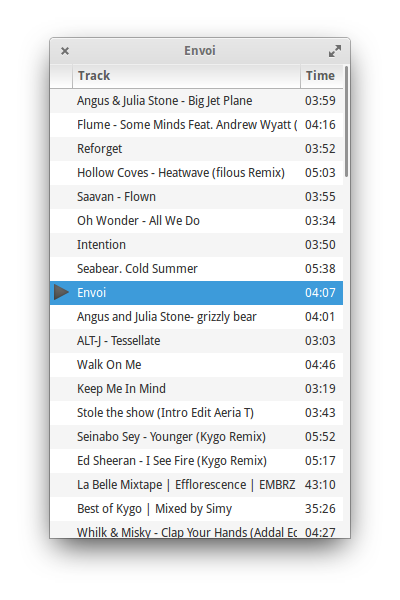
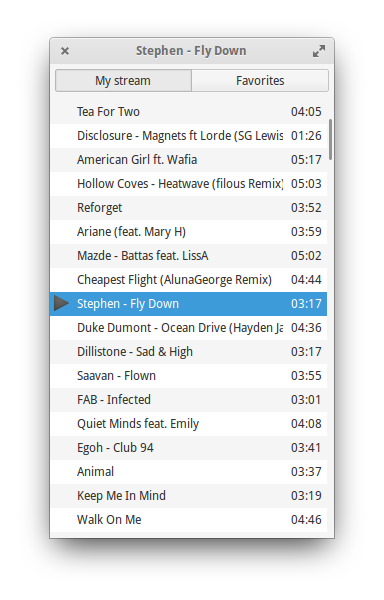
Login, main stream, stack_switcher at the top

Changed region(s): [[0.125, 0.06, 0.875, 0.9]]

diff --git a/nem.py b/nem.py
@@ -1,13 +1,16 @@
 #!/usr/bin/python
 # encoding=utf8
 import soundcloud
-import os, time
+import os
 import gi
 from gi.repository import Gst, GObject, Gtk, GLib, Gdk
 import config
 
+client = soundcloud.Client(client_id=config.api_client_id, client_secret=config.api_client_secret, username= config.username, password=config.password)
+
 favorites_tracks = []
-client = soundcloud.Client(client_id=config.api_client_id)
+mystream_tracks = []
+tracks = []
 
 def milliToR(miliseconds):
     hours, milliseconds = divmod(miliseconds, 3600000)
@@ -25,19 +28,36 @@ def get_resource_path(rel_path):
     abs_path_to_resource = os.path.abspath(rel_path_to_resource)
     return abs_path_to_resource
 
-def getSoundcloudData():
-    id_user = client.get("/resolve?url=http://soundcloud.com/"+config.username).id
-    #Get first 200 items (limit) of tracks
-    tracks = client.get("/users/"+str(id_user)+"/favorites", limit=200, linked_partitioning=1)
-    favorites_tracks.extend(tracks.collection)
-    # Iterate through all pages of soundcloud tracks
-    while hasattr(tracks, 'next_href'):
-        tracks = client.get(tracks.next_href)
-        favorites_tracks.extend(tracks.collection)
-    return favorites_tracks
-
 class GTK_Main(object):
-     
+
+    def getSoundcloudData(self):
+        #Get first 200 items (limit) of tracks
+        rqt = client.get("/me/favorites", limit=200, linked_partitioning=1)
+        temp_tracks = []
+        temp_tracks.extend(rqt.collection)
+        while hasattr(rqt, 'next_href'): # Iterate through all pages of soundcloud favorites
+            rqt = client.get(rqt.next_href)
+            temp_tracks.extend(rqt.collection)
+
+        for i in temp_tracks:
+            if hasattr(i, 'title') and hasattr(i, 'duration') and hasattr(i, 'stream_url'):
+                tracks.append({'type': 'favorites', 'title': i.title, 'duration': i.duration, 'stream_url': i.stream_url})
+
+
+        #Get only 200 items (limit) of tracks
+        rqt = client.get("/me/activities", limit=200)
+        temp_tracks = []
+        temp_tracks.extend(rqt.collection)
+
+        for i in temp_tracks:
+            if i.type == "track" or i.type == "track-sharing" or i.type == "track-repost":
+                if hasattr(i.origin, 'title') and hasattr(i.origin, 'duration') and hasattr(i.origin, 'stream_url'):
+                    tracks.append({'type': 'mystream', 'title': i.origin.title, 'duration': i.origin.duration, 'stream_url': i.origin.stream_url})
+        # Loading finished, show data
+        self.vbox.remove(self.loading)
+        self.scrolledwindow.show()
+        self.loadMyStream('')
+         
     def playStream(self, iter):
         model = self.treeview.get_model()
         #Check if a song is already playing, and erase it's status icon
@@ -48,9 +68,8 @@ class GTK_Main(object):
         self.liststore.set_value(playing_cell, 0, Gtk.STOCK_MEDIA_PLAY)
         
         track = model[iter][1]
-        #To change : actually comparing tracks name but should get the list index and play the index sound
-        for f in favorites_tracks:
-            if f.title.encode('ascii', 'ignore') == track:
+        for f in tracks:
+            if f['title'].encode('ascii', 'ignore') == track:
                 self.window.set_title(track)
                 old_state = self.player.get_state(0)[1]
                 if old_state == Gst.State.PAUSED:
@@ -58,7 +77,7 @@ class GTK_Main(object):
                 else:
                     self.player.set_state(Gst.State.NULL)
                     
-                self.player.set_property("uri", f.stream_url+"?client_id="+client.client_id)
+                self.player.set_property("uri", f['stream_url']+"?client_id="+client.client_id)
                 self.player.set_state(Gst.State.PLAYING) 
     
     def onClickRow(self, treeview, path, column):
@@ -84,8 +103,8 @@ class GTK_Main(object):
         if 'playing_cell' in globals():
            next_iter = self.liststore.iter_next(playing_cell) 
            self.playStream(next_iter)
-           
-    def OnMessage(self, bus, message):
+
+    def OnGstMessage(self, bus, message):
         if message.type == Gst.MessageType.EOS:
           self.NextTrack()
         elif message.type == Gst.MessageType.ERROR:
@@ -101,22 +120,29 @@ class GTK_Main(object):
             self.NextTrack()
             return True
 
-    def showDataRows(self):
-        for i in getSoundcloudData():
-            self.liststore.append(['', i.title.encode('ascii', 'ignore'), milliToR(i.duration)])
-        self.vbox.remove(self.loading)
-        self.scrolledwindow.show()
-        
+    def loadFavorites(self, a):
+        self.liststore.clear()
+        for i in tracks:
+            if i['type'] == "favorites":
+                self.liststore.append(['  ', i['title'].encode('ascii', 'ignore'), milliToR(i['duration'])])
+
+    def loadMyStream(self, a):
+        self.liststore.clear()
+        for i in tracks:
+            if i['type'] == "mystream":
+                self.liststore.append(['  ', i['title'].encode('ascii', 'ignore'), milliToR(i['duration'])])
+
+            
     def __init__(self):     
         self.window = Gtk.Window(Gtk.WindowType.TOPLEVEL)
         self.window.set_default_size(400, 600)
+        self.window.set_border_width(0)
         self.window.set_title("Nem")
         self.window.set_icon_from_file(get_resource_path("icon.png"))
-        #self.window.connect("realize", self.onClickBtn)
         self.window.connect("destroy", Gtk.main_quit, "WM destroy")
         self.window.connect('key_press_event', self.KeyPressed)
-        
-        #Cross platform and theme-independent style
+    
+        # ---------------- Cross platform & theme-independent style -------------------
         style_provider = Gtk.CssProvider()
         style_provider.load_from_data('''
         GtkTreeView row:nth-child(even) { background-color: #F5F5F5; color: #333333}
@@ -124,18 +150,20 @@ class GTK_Main(object):
         GtkTreeView row:selected { background-color: #3D9BDA; color: #FFFFFF}
         ''')
         Gtk.StyleContext.add_provider_for_screen(Gdk.Screen.get_default(), style_provider, Gtk.STYLE_PROVIDER_PRIORITY_APPLICATION)
-
-        self.vbox = Gtk.VBox()
+        #---------------------------------------------------------------------------------
+        
+        self.vbox = Gtk.VBox(orientation=Gtk.Orientation.VERTICAL, spacing=6)
         self.window.add(self.vbox)
 
         self.liststore = Gtk.ListStore(str, str, str)
         self.treeview = Gtk.TreeView(self.liststore)
-        
-        #Different color for each row
-        self.treeview.set_rules_hint(True)
- 
-        self.treeview.set_property('height-request', 500)
-        
+        self.treeview.connect('row-activated', self.onClickRow) #Double click handler
+        self.treeview.set_rules_hint(True)  #Different color for each row
+        self.treeview.set_headers_visible(False) # Hide headers
+        self.treeview.set_property('height-request', 500)        
+        self.treeview.set_search_column(-1) #not searchable (so keypress events don't interfers
+        self.treeview.set_reorderable(True) #drag & drop rows
+  
         # create the TreeViewColumns to display the data
         self.statusColumn = Gtk.TreeViewColumn('')
         self.trackColumn = Gtk.TreeViewColumn('Track')
@@ -146,8 +174,6 @@ class GTK_Main(object):
         self.treeview.append_column(self.trackColumn)
         self.treeview.append_column(self.timeColumn)
 
-        
-
         # create a CellRenderers to render the data
         self.cellStatus = Gtk.CellRendererPixbuf()
         self.cellTrack = Gtk.CellRendererText()
@@ -156,53 +182,64 @@ class GTK_Main(object):
         # add the cells to the columns
         self.statusColumn.pack_start(self.cellStatus, False)
         self.trackColumn.pack_start(self.cellTrack, True)
+        self.trackColumn.set_sort_column_id(1)  # Allow sorting on the track column
         self.timeColumn.pack_start(self.cellTime, False)
 
         # 2nd argument is for mapping with data from liststore append above
         self.statusColumn.set_attributes(self.cellStatus, stock_id=0)
         self.trackColumn.set_attributes(self.cellTrack, text=1)
         self.timeColumn.set_attributes(self.cellTime, text=2)
-
-        # Allow sorting on the track column and 
-        self.trackColumn.set_sort_column_id(1)
-        #not searchable (so keypress events don't interfers)
-        self.treeview.set_search_column(-1)
-        #drag & drop rows
-        self.treeview.set_reorderable(True)
        
         #Column auto expand based on window size
         self.trackColumn.set_fixed_width(100)
         self.trackColumn.set_expand(True)
         
-        #Double click handler
-        self.treeview.connect('row-activated', self.onClickRow)
-          
+        #-------------------- STACK SWITCHER --------------------
+        self.btnMyStream = Gtk.RadioButton()
+        self.btnMyStream.set_label('My stream')
+        self.btnMyStream.connect('toggled', self.loadMyStream)
+        self.btnMyStream.set_property('draw-indicator', False)
+
+        self.btnFavorites = Gtk.RadioButton().new_from_widget(self.btnMyStream)
+        self.btnFavorites.set_label('Favorites')
+        self.btnFavorites.connect('toggled', self.loadFavorites)
+        self.btnFavorites.set_property('draw-indicator', False)
+
+        stack_switcher = Gtk.StackSwitcher() # This is the two togglable buttons at the top
+        stack_switcher.add(self.btnMyStream)
+        stack_switcher.add(self.btnFavorites)
+
+        #Mimicing the look and showing Gtk.StackSwitcher
+        stack_switcher.get_style_context().add_class(Gtk.STYLE_CLASS_LINKED)
+        stack_switcher.get_style_context().add_class("raised")
+        stack_switcher.set_homogeneous(True);
+        stack_switcher.set_property('margin', 5)
+
+        self.vbox.pack_start(stack_switcher, False, True, 0)
+        #------------------------------------------------------
+
         # So we can scroll through treeview
         self.scrolledwindow = Gtk.ScrolledWindow()
         self.scrolledwindow.set_hexpand(True)
         self.scrolledwindow.set_vexpand(True)
         self.scrolledwindow.add(self.treeview)
-        self.vbox.pack_start(self.scrolledwindow, False, True, 0)
+        self.vbox.pack_start(self.scrolledwindow, True, True, 0)
 
-        #Text because spinner reaaaaally lag and block
-        self.loading = Gtk.Label()
+        self.loading = Gtk.Label() # Label because spinner widget reaaaaally lag and block
         self.loading.set_label("Loading your tracks...")
-        self.vbox.pack_start(self.loading, True, False, 0)
+        self.vbox.pack_start(self.loading, True, True, 0)
 
-        self.window.show_all()
+        self.window.show_all() # Show all widgets
+        self.scrolledwindow.hide() #Hidden before data is loaded in rows so we can show the loading...
 
-        #Hidden before data is loaded in rows so we can show the loading...
-        self.scrolledwindow.hide()
-
-        #Ugly timeout to wait for the window to be shown - to be changed
-        GLib.timeout_add(500, self.showDataRows)
+        GLib.timeout_add(500, self.getSoundcloudData)  #Ugly timeout to wait for the window to be shown - to be changed
 
         # All the gstreamer audio stuff
         self.player = Gst.ElementFactory.make("playbin", "player")
         fakesink = Gst.ElementFactory.make("fakesink", "fakesink")
         bus = self.player.get_bus()
         bus.add_signal_watch()
-        bus.connect('message', self.OnMessage)
+        bus.connect('message', self.OnGstMessage)
       
 Gst.init(None)
 GTK_Main()

diff --git a/README.md b/README.md
@@ -2,7 +2,6 @@
 
 ![Nem](screenshot.png?raw=true "Nem")
 
-* No need to login, based on Soundcloud public data
 * Super sleek interface
 * Full keyboard control
 * Distraction-free
@@ -13,6 +12,8 @@
 **N** -> Next track
 
 **S (coming soon)** -> Shuffle playlist
+
+**L (coming soon)** -> Like track
 
 ## Instructions
 
@@ -27,14 +28,16 @@ Tested on Ubuntu and Elementary OS.
 
 #### Complete the config.py file with:
 
-**A Soundcloud username:** the last part of a profile url. For example if your profile is http://soundcloud.com/coolusername, coolusername is your username.
-
-**A valid SoundCloud API client_id** (you can find a lot by [searching Github](https://github.com/search?q=soundcloud+client_id&type=Code&utf8=%E2%9C%93))
+**Your Soundcloud username:** the last part of your profile url. For example if your profile is http://soundcloud.com/coolusername, coolusername is your username.
+**Your Soundcloud password**
+**A valid SoundCloud API client_id and client_secret** (you can find a lot by [searching Github](https://github.com/search?utf8=%E2%9C%93&q=soundcloud+client+secret&type=Code&ref=searchresults))
 
 ## Todo
-* Cross-platform notifications (when a track is playing)
-* Play all public playlists (not only favorites)
+* Like a track
+* Notifications (when a track is playing)
+* Caching of data
+* Progress bar instead of "loading..."
+* Play all playlists (not only favorites)
 * Error handling when no internet or invalid username
 * Shuffle function
 * Better icon corresponding to "Nem"
-* Package with all dependencies for easy install
